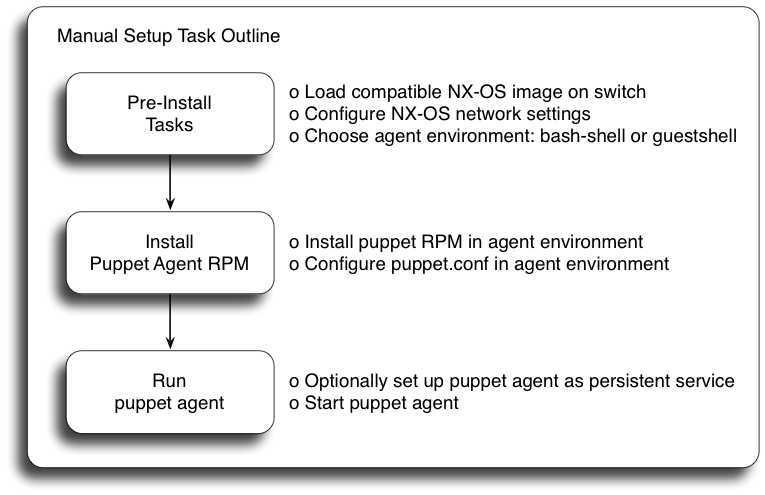
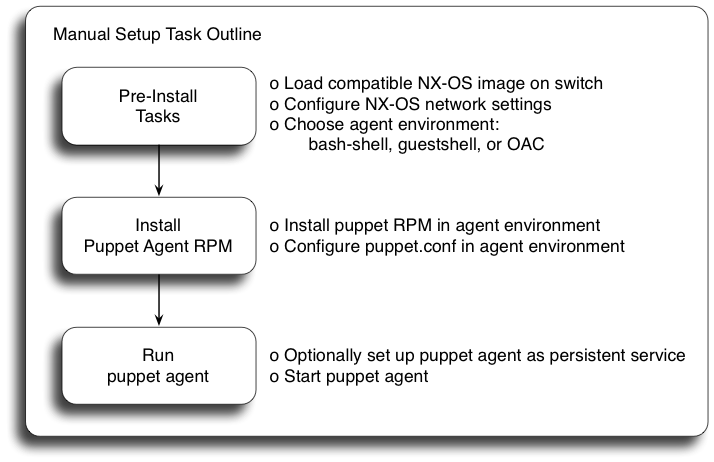
Review comments addressed
* All addressed except for the GS RPM comment.

diff --git a/docs/README-agent-install.md b/docs/README-agent-install.md
@@ -5,7 +5,7 @@
 
 1. [Overview](#overview)
 1. [Pre-Install Tasks](#pre-install-tasks)
-1. Agent Environments(#agent-environments)
+1. [Agent Environments](#env-bs)
   * [bash-shell](#env-bs)
   * [guestshell](#env-gs)
   * [open agent container (OAC)](#env-oac)
@@ -62,14 +62,14 @@ NX-OS Environment | Supported Platforms | |
 `guestshell` | N3k, N8k, N9k | This is a secure Linux container environment running CentOS. It is enabled by default in most platforms that support it. |
 `open agent`<br>`container (OAC)` | N5k, N6k, N7k | This is a 32-bit CentOS-based container created specifically for running Puppet Agent software. |
 
-* *OAC containers are created for specific platforms and must be downloaded from [cisco.com](http://cisco.com). The OAC must be installed before the Puppet Agent can be installed.*
+* *OAC containers are created for specific platforms and must be downloaded from Cisco (see [OAC Download](#env-oac)). The OAC must be installed before the Puppet Agent can be installed.*
 
 * *Running Puppet Agent from multiple environments simultaneously is not supported*
 
 
 #### *Step 3. Network Connectivity*
 
-* Ensure that connectivity exists between the agent node and the Puppet Server. Note that connectivity via the management interface is in a separate VRF context which requires some additional configuration.
+* Ensure that IP reachability exists between the agent node and the Puppet Server. Note that connectivity via the management interface is in a separate VRF context which requires some additional configuration.
 * Configure NTP to ensure that the agent node time is in sync with the Puppet Server.
 
 _Note: The management interface exists in a separate VRF context and requires additional configuration as shown._
@@ -90,8 +90,6 @@ config term
   ntp server 10.0.0.201 use-vrf management
 end
 ~~~
-
-## <a name="agent-environments">Agent Environments</a>
 
 ## <a name="env-bs">Agent Environment Setup: bash-shell</a>
 
@@ -130,9 +128,9 @@ _A Note on Persistence_: The current NX-OS bash-shell implementation does not au
 
 This section is only required when running Puppet from the `guestshell`.
 
-#### *Step 1. Allocate Resources and Enable the guestshell*
+#### *Step 1. Enable the guestshell*
 
-The `guestshell` container environment is enabled by default on most platforms; however, the default disk and memory resources allotted to guestshell are typically too small to support Puppet agent requirements. The resource limits may be increased with the NX-OS CLI `guestshell resize` commands as shown.
+The `guestshell` container environment is enabled by default on most platforms; however, the default disk and memory resources allotted to guestshell are typically too small to support Puppet agent requirements. The resource limits may be increased with the NX-OS CLI `guestshell resize` commands as shown below.
 
 Resource| Recommended|
 :--|:--:|
@@ -154,41 +152,45 @@ Virtual service guestshell+ detail
 ~~~
 
 <p>
-`guestshell resize rootfs` will resize the guestshell filesystem, `guestshell resize memory` resizes memory limits. The resize commands do not take effect until after the guestshell container is (re)started by the `guestshell reboot` or `guestshell enable` commands.
+`guestshell resize rootfs` sets disk size limits while `guestshell resize memory` sets memory limits. The resize commands do not take effect until after the guestshell container is (re)started by `guestshell reboot` or `guestshell enable`.
 
-**Example.** Guestshell is currently enabled. Resize the limits to 400MB disk and 300MB memory.
+**Example.** Allocate resources for guestshell by setting new limits to 400MB disk and 300MB memory.
 
 ~~~
 n3k# guestshell resize rootfs 400
-
 n3k# guestshell resize memory 300
 
 n3k# guestshell reboot
 Are you sure you want to reboot the guest shell? (y/n) [n] y
 ~~~
 
-
 #### *Step 2. Set Up Guestshell Network*
 
-The `guestshell` is an independent CentOS container that does not inherit settings from NX-OS; thus it requires additional network configuration.
+The `guestshell` is an independent CentOS container that does not inherit settings from NX-OS.
 
-* Enter the guestshell environment using the `guestshell` command
-* Use `sudo` to become root. *Optional: Use `chvrf` to specify a vrf namespace; e.g. `sudo chvrf management`*
-* Set up the hostname
-* Add DNS config
-
-**Example:** Guestshell network setup
+* Use `guestshell` enter the guestshell environment, then become root.
+* *Optional:* Use `chvrf` to specify a vrf namespace; e.g. `sudo chvrf management`
 
 ~~~bash
 n3k#  guestshell
 
 [guestshell@guestshell ~]$ sudo su -          # Optional: sudo chvrf management
 [root@guestshell guestshell]#
+~~~
 
+#### *Optional: Set up hostname*
+
+This step is only needed if `certname` will not be specified in `puppet.conf`.
+
+~~~bash
 [root@guestshell guestshell]#  hostname n3k
 
 [root@guestshell guestshell]#  echo 'n3k' > /etc/hostname
+~~~
 
+#### *Optional: Add DNS configuration*
+
+~~~bash
 [root@guestshell guestshell]#  cat >> /etc/resolv.conf << EOF
 nameserver 10.0.0.202
 domain mycompany.com
@@ -217,8 +219,10 @@ n7k# dir bootflash:
 
 #### *Step 2. Install and Activate the OAC*
 
-* Display container resources with `show virtual-service global`.
-  * The OAC will require **400 MB** of disk space on bootflash. Remove unnecessary files if insufficient space is available.
+##### Check Resources
+
+Display container resources with `show virtual-service global`.<br>
+The OAC will require **400 MB** of disk space on bootflash. Remove unnecessary files if insufficient space is available.
 
 ~~~
 n7k#  show virtual-service global
@@ -230,9 +234,10 @@ system CPU (%)                  6            0            6
 memory (MB)                  2304            0         2304
 bootflash (MB)                600            0          600
 ~~~
-<br>
 
-* Install the OAC with `virtual-service install`
+##### Installation
+
+Install the OAC using the `virtual-service install` exec command.
 
 ~~~
 n7k#  virtual-service install name oac package bootflash:oac.1.0.0.ova
@@ -245,9 +250,10 @@ Use 'show virtual-service list' for progress.
 n7k# show virtual-service list
 oac                     Installed          oac.1.0.0.ova
 ~~~
-<br>
 
-* Activate the `virtual-service`
+##### Activation
+
+Activate the `virtual-service` using configuration mode.
 
 ~~~
 n7k#  config t
@@ -261,38 +267,40 @@ Use 'show virtual-service list' for progress.
 n7k# show virtual-service list
 oac                     Activated          oac.1.0.0.ova
 ~~~
-<br>
 
-#### *Step 3. Set Up OAC Network*
+#### *Step 3. Set Up the OAC Network*
 
-The OAC is an independent CentOS container that does not inherit settings from NX-OS; thus it requires additional network configuration.
+The OAC is an independent CentOS container that does not inherit settings from NX-OS.
 
-* Enter the OAC environment using `virtual-service connect`. *The OAC default userid / password is `root / oac`. You are required to change the password on initial login.*
-* *Optional: Use `chvrf` to specify a vrf namespace; e.g. `sudo chvrf management`*
-* Set up the hostname
-* Add DNS config
+* Use `virtual-service connect` to enter the OAC environment. *The OAC default userid / password is `root / oac`. You are required to change the password on initial login.*
 
-**Example:** OAC network setup
+* *Optional:* Use `chvrf` to specify a vrf namespace; e.g. `chvrf management`
 
 ~~~
 n7k#  virtual-service connect name oac console
 Connecting to virtual-service.  Exit using ^c^c^c
-
-CentOS release 6.7 (Final)
-Kernel 2.6.99.99 on an x86_64
 
 localhost login: root
 Password: oac
 You are required to change your password immediately (root enforced)
 Changing password for root.
 [root@localhost ~]#
-
 [root@localhost ~]#  chvrf management
+~~~
 
-[root@localhost ~]#  hostname n7k
+#### *Optional: Set up hostname*
 
-[root@n7k ~]#  echo 'n7k' > /etc/hostname
+This step is only needed if `certname` will not be specified in `puppet.conf`.
 
+~~~bash
+[root@guestshell guestshell]#  hostname n3k
+
+[root@guestshell guestshell]#  echo 'n3k' > /etc/hostname
+~~~
+
+#### *Optional: Add DNS configuration*
+
+~~~bash
 [root@n7k ~]#  cat >> /etc/resolv.conf << EOF
 nameserver 10.0.0.202
 domain mycompany.com
@@ -350,10 +358,12 @@ export PATH=/opt/puppetlabs/puppet/bin:/opt/puppetlabs/puppet/lib:$PATH
 #### *Step 2. Configure* `/etc/puppetlabs/puppet/puppet.conf`
 
 Add your Puppet Server name to the configuration file.
+*Optional:* Use `certname` to specify the agent node's ID. This is only needed if `hostname` has not been set.
 
 ~~~bash
 [main]
-  server = mypuppetmaster.mycompany.com
+  server   = mypuppetmaster.mycompany.com
+  certname = this_node.mycompany.com
 ~~~
 <br>
 
@@ -375,9 +385,9 @@ cp examples/install.pp  manifests/
 **Example**
 
 ~~~
-node default
+node 'default' {
   include ciscopuppet::install
-end
+}
 ~~~
 
 The preceding configuration will cause the next `puppet agent` run to automatically download the current `cisco_node_utils` gem from <https://rubygems.org/gems/cisco_node_utils> and install it on the node.
@@ -391,7 +401,6 @@ The preceding configuration will cause the next `puppet agent` run to automatica
 
 ~~~
 node default
-  include ciscopuppet::install
   class {'ciscopuppet::install':
     repo  => 'http://gemserver.domain.com:8808',
     proxy => 'http://proxy.domain.com:8080',
@@ -411,6 +420,8 @@ gem install cisco_node_utils
 <br>
 
 #### *Step 4. Run Puppet Agent*
+
+Executing the `puppet agent` command (with no arguments) will start the puppet agent process with the default runinterval of 30 minutes. Use the `-t` option to run puppet agent in test mode, which runs the agent a single time and stops.
 
 ~~~bash
 puppet agent -t
@@ -438,7 +449,7 @@ It may be desirable to set up automatic restart of the Puppet agent in the event
 
 * [Service Management in bash-shell using init.d](#svc-mgmt-bs)
 * [Service Management in guestshell using systemd](#svc-mgmt-gs)
-* The open agent container (OAC) does not support agent persistence
+* The open agent container (OAC) does not officially support agent persistence.
 <br>
 
 #### <a name="svc-mgmt-bs">Service Management in bash-shell using init.d</a>
